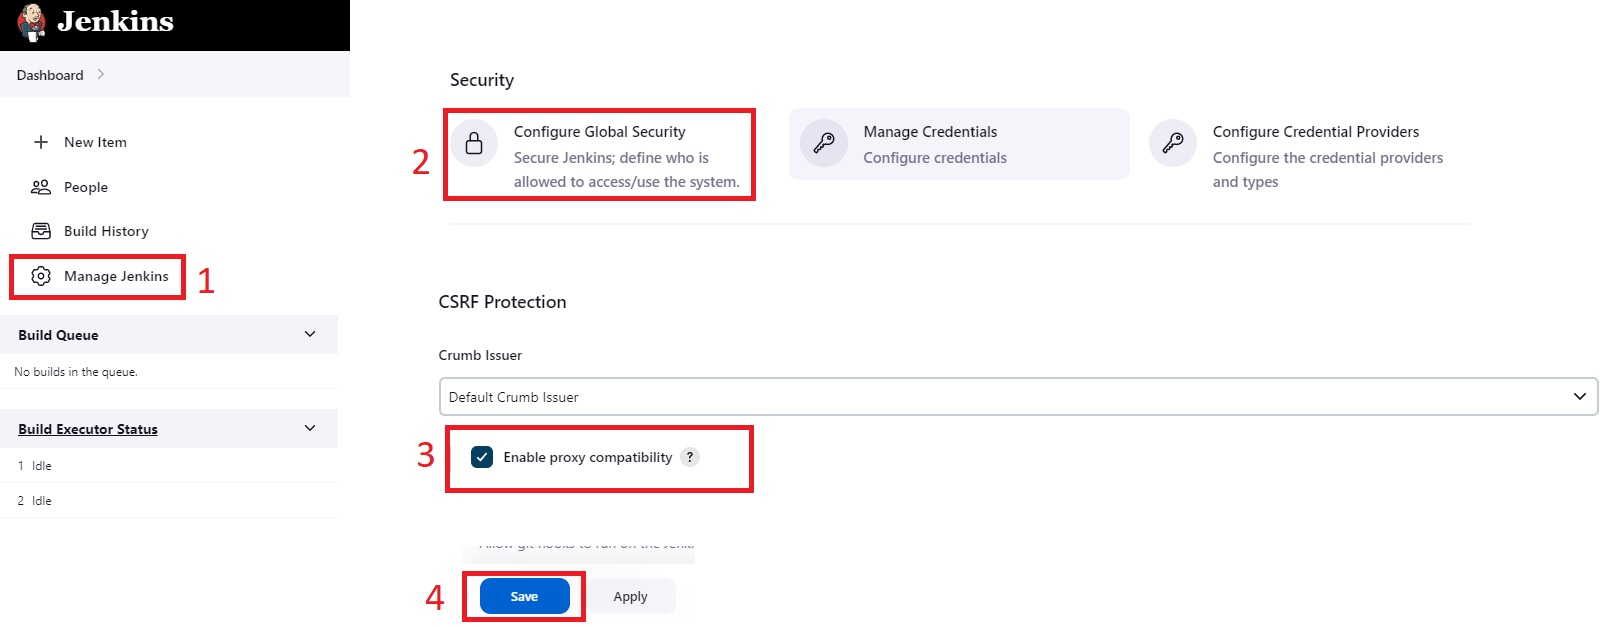
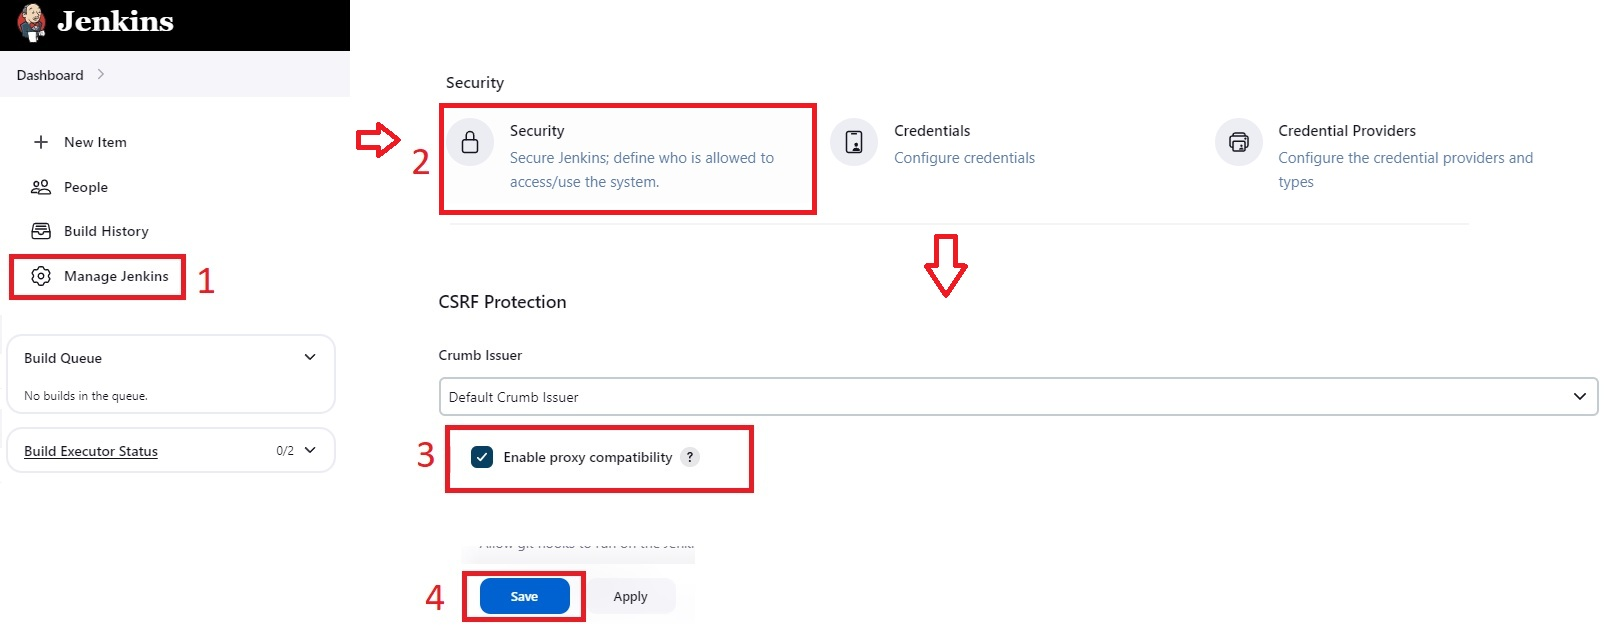
v2

diff --git a/README.md b/README.md
@@ -7,13 +7,13 @@
 ## Repository:   
 [https://github.com/GeorgeDaoud3/SOFE3980U-Lab4.git](https://github.com/GeorgeDaoud3/SOFE3980U-Lab4.git) 
 
-## Introduction and Getting started
-1. Watch the following video about [Dev-ops](https://www.youtube.com/watch?v=LFDrDnKPOTg).
-2. Install Jenkins Server on GCP, using Helm. Helm is a tool to create customized applications within Kubernetes.
+## Introduction and Getting Started 
+1. Watch the following video about [Dev-ops](https://www.youtube.com/watch?v=LFDrDnKPOTg). 
+2. Install Jenkins Server on GCP, using Helm. Helm is a tool that creates customized applications within Kubernetes.
    1. Watch the following video about [Helm](https://www.youtube.com/watch?v=fy8SHvNZGeE).
    2. If there is no Kubernetes cluster within your GCP project, Create a cluster as illustrated in [MS3](https://github.com/GeorgeDaoud3/SOFE3980U-Lab3#setup-google-kubernetes-engine-gke). To get the cluster information.
       ```cmd
-      kubectl cluster-info
+      kubectl cluster-info 
       ``` 
    3. Pull the Jenkins Helm chart from a repository.  
       ```cmd
@@ -37,69 +37,120 @@
       ```cmd 
       kubectl get services
       ```
+
       ![sq4_1](figures/sq4_1.jpg)
+    
    8. Access Jenkins server using the following URL http://\<jenkinsIP\>:8080. Where \<jenkinsIP\> is the IP obtained in the previous step. It should look like
+
       ![sq4_2](figures/sq4_2.jpg)
-   9. To fix a connection issue, **Manage Jenkins**, select **configure Global Security**, under **CSRF Protection**, and check **Enable proxy compatibility**. Click **save** button. (Note the connection issue won’t be fixed until the configuration is saved. You may need to repeat this step until the configuration is saved)
+    
+      To fix a connection issue, click Manage Jenkins, select Security, and check Enable proxy compatibility under CSRF Protection. Click the save button. (Note: the connection issue won't be fixed until the configuration is saved. You may need to repeat this step until the configuration is saved) 
+
+   9. To fix a connection issue, click **Manage Jenkins**, select **Security**,and check **Enable proxy compatibility** under **CSRF Protection**. Click the **save** button. (Note: the connection issue won’t be fixed until the configuration is saved. You may need to repeat this step until the configuration is saved)
+   
       ![sq4_3](figures/sq4_3.jpg)
+   
+## Protect Jenkins by Setting a Username and Password
+1. Click **Manage Jenkins**, select **System**, set the **Security Realm** to **Jenkins' own user database**, set the **Authentication** to **Logged-in users can do anything**, and uncheck **Allow users to sign up** and **Allow anonymous  read access**. Finally, click the **save** button.
+   
+   ![pd_1](figures/pd_1.jpg)
+   
+3. Then, Jenkins forwards you to another page to set the username and password for the admin.
+   
+   ![pd_2](figures/pd_2.jpg)
+   
 ## Create a Maven project job
-1. Create a GitHub account. Create a repository. Copy the content of the [repository](https://github.com/GeorgeDaoud3/SOFE3980U-Lab4.git) into your repository ( or simply fork it ).
-2. Create a GitHub token: Within the GitHub page, login into your account. Choose  **settings**, **Developer settings**, **Personal access token**, then, **Token (classic)**. Click **Generate new token**. Select **Generate new token (classic)**. Set the note, check **public_repo** and click **Generate token**. Finally, copy the token code.
+1. Create a GitHub account if you don't have one. Create a repository. Copy this [repository](https://github.com/GeorgeDaoud3/SOFE3980U-Lab4.git)'s content  into your repository.
+2. Create a GitHub token: Within the GitHub page, login into your account. Choose  **settings**, **Developer settings**, **Personal access token**, and **Token (classic)**. Click **Generate new token**. Select **Generate new token (classic)**. Set the note, check **public_repo**, and click **Generate token**. Finally, copy the token code.
+   
    ![sq4_7](figures/sq4_7.jpg)
-3. Install **Pipeline Maven Integration** Plugin: select **Dashboard**, **Manage Jenkins**, then, **Manage Plugins**. Choose **Available Plugins**. Search for **Pipeline Maven Integration**. After checking it, click **Download now and install after restart**. Check **Restart Jenkins when installation is complete and no jobs are running**. Finally, wait until the plugin is intalled and Jenkins restarts.
+   
+3. Install **Pipeline Maven Integration** Plugin: select **Dashboard**, **Manage Jenkins**, then **Manage Plugins**. Choose **Available Plugins**. Search for **Pipeline Maven Integration**. After checking it, click **Download now and install after restart**. Check **Restart Jenkins when installation is complete and no jobs are running**. Finally, wait until the plugin is installed and Jenkins restarts.
+
    ![sq4_4](figures/sq4_4.jpg)
-4. Repeat the previous step to install **Maven Integration** plugin
-5. Repeat the previous step to install **GitHub** plugin
-6. Configure GitHub Plugin
-   1. Select **Dashboard**, **Manage Jenkins**, then, **Configure System**. Scroll down to the **GitHub** section. Click **Add GitHub Server** button. Name it **github**. Click **Add** for a credential.
+   
+4. Repeat the previous step to install **Maven Integration** and  **GitHub** plugins
+5. Configure GitHub Plugin
+   1. Select **Dashboard**, **Manage Jenkins**, then **System**. Scroll down to the **GitHub** section. Click the **Add GitHub Server** button. Name it, **github**. Finally, click **Add**.
+
       ![sq4_8](figures/sq4_8.jpg)
-   2. Choose the kind to be **secret text**. Type Github token obtained in step 2 in the **secret** textbox. Set its **ID** to be **GitHub_token**. Finally, click **ADD**.
+      
+   2. Select the **kind** to be **Secret text**. Type the Github token obtained previously in the **Secret** textbox. Set its **ID** to be **GitHub_token**. Finally, click **ADD**.
+
       ![sq4_9](figures/sq4_9.jpg)
+      
    3. Set the **credential** to **GitHub_token**. Test the connection. Then, click **Save**.
+
       ![sq4_10](figures/sq4_10.jpg)
-7. Configure Maven Plugin: select **Dashboard**, **Manage Jenkins**, **Global Tool Configuration**, choose **Add Maven**, name it **maven**, choose **Install automatically**, click **save**.
+      
+6. Configure Maven Plugin: select **Dashboard**, **Manage Jenkins**, **Tools**, choose **Add Maven**, name it **maven**, choose **Install automatically**, then click **Save**.
+
    ![sq4_5](figures/sq4_5.jpg)
-8. Create a Job: select **Dashboard**. Click **create a job**. Name it **binaryCalculate_mvn**, and choose **Maven Project**. Finally, click **Ok**.
+   
+7. Create a Job: select **Dashboard**. Click **New Item**. Name it **binaryCalculate_mvn**, and choose **Maven Project**. Finally, click **Ok**.
+
    ![sq4_6](figures/sq4_6.jpg)
-9. Configure the job: The job will automatically pull the repository for each commit. Then, the maven project is built and the status is sent back to the repository to be associative to the commit.
+   
+8. Configure the job: The job will automatically pull the repository for each commit. Then, the maven project is built, and the status is sent back to the repository associate it with the commit.
    1. For **Source Code Management**, select **Git**. Fill in the **Repository URL**. Make sure that the **branch** is blank.
+
       ![sq4_11](figures/sq4_11.jpg)
-   2. In **build triggers** section, check **GitHub hook trigger for GITScm polling** to automatically start the job for each new commit to the repository.
+      
+   2. In the **build triggers** section, check **GitHub hook trigger for GITScm polling** to automatically start the job for each new commit to the repository.
+
       ![sq4_12](figures/sq4_12.jpg)
-   3. In **build** section, set the path of the **pom** file in the repository and the build options.
+      
+   3. In the **build** section, set the path of the **pom** file in the repository and the build options.
+
       ![sq4_13](figures/sq4_13.jpg)
-   4. In the **Post-build Actions** section, **set build status on GitHub commit** which will associate the GitHub commit with the status of the Jenkins job.
+      
+   4. In the **Post-build Actions** section, **set GitHub commit status (universal)**, which will associate the GitHub commit with the status of the Jenkins job. Change the **Status result:** to **One of the default messages and statuses**.
+
       ![sq4_14](figures/sq4_14.jpg)
-   5. Click **Save**. 
-10. To enable Jenkins to automatically start running after each commit, **webhook** has to be configured in the GitHub repository.
+      
+   5. Click **Save**.
+      
+9. To allow Jenkins to start running after each commit automatically, a **webhook** has to be configured in the GitHub repository.
    1. Within the repository page in the Github, select **Settings**. Select **Webhooks**. Then, click **Add webhook**.
+
       ![sq4_15](figures/sq4_15.jpg)
-   2. set the **Payload URL** to http://\<jenkinsIP\>:8080/github-webhook/ and the content type to JSON. Then, click **Add webhook**.
+      
+   2. Set the **Payload URL** to http://\<jenkinsIP\>:8080/github-webhook/ and the content type to JSON. Then, click **Add webhook**.
+
       ![sq4_16](figures/sq4_16.jpg)
-11. Once you commit any changes to the repository (you can change the readme file), the job will start building. 
-   1. To check the status of each run or to build it the job manually, navigate to the job page within Jenkins.
-      ![sq4_17](figures/sq4_17.jpg)
-   2. Also, the commit in the GitHub will have a check mark and a link to the Jenkins build report.
-      ![sq4_18](figures/sq4_18.jpg)
+      
+10. The job will start building once you commit any changes to the repository (or you can trigger it by editting the readme file).
+    
+    1. To check the status of each run or to build the job manually, navigate to the job page within Jenkins.
+
+       ![sq4_17](figures/sq4_17.jpg)
+      
+    2. The commit in the GitHub will also have a checkmark and a link to the Jenkins build report.
+
+       ![sq4_18](figures/sq4_18.jpg)
+
 
 ## Create a Jenkins job using a script.
-The Other way is to create a customized job by providing a script (**Jenkinsfile**) that contains the description of a pipeline of stages that would be executed. This method is more flexible. The Jenkinsfile already exists in the repository at the path /BinaryCalculatorWebapp/. 
+The Other way is to create a customized job by providing a script (**Jenkinsfile**) that describes the Job as a pipeline of stages that would be executed. This method is more flexible. The Jenkinsfile already exists in the repository at the path /BinaryCalculatorWebapp/. 
 1.	Watch this video about [the pipeline syntax]( https://www.youtube.com/watch?v=pzbrVVy6ul4)
-2.	Read the file /BinaryCalculatorWebapp/Jenkinsfile and try to understand 
-3.	Select Dashboard. Click New Item. Name it BinaryCalculator_pipeline. Choose the type to be Pipeline.
-4.	On the configuration page,
-   1. In the Build Triggers section, check GitHub hook trigger for GITScm polling.
-   2. In the Pipeline section, 
+2.	Read the file [/BinaryCalculatorWebapp/Jenkinsfile](/BinaryCalculatorWebapp/Jenkinsfile) and try to understand its function.
+3.	Go to Jenkins' **Dashboard**. Click **New Item**. Name it **BinaryCalculator_pipeline**. Choose the type to be **Pipeline**.
+4.	In the configuration page,
+   1. In the **Triggers** section, check **GitHub hook trigger for GITScm polling**.
+   2. In the **Pipeline** section, 
       * Set the **Definition** to **Pipeline script from SCM**.
       * Set the **SCM** to **Git**
       * Set the **Repository URL** to your GitHub link.
-      * Set the **Script Path** to /BinaryCalculatorWebapp/Jenkinsfile
-      * Set the **branches to build** to \* / \*
+      * Set the **branches to build** to \* / \* , **main** or leave it blank.
+      * Set the **Script Path** to BinaryCalculatorWebapp/Jenkinsfile
 5.	As the **webhook** is already configured, it should work automatically when  after each commit. Commit any change to the repository. Then, check that the job is been executed and check its report.
 
 ## Continuous Integration / Continuous Deployment (CICD) using Jenkins
+
 A continuous deployment will be added to the previous Jenkins Job. 
+
 ### 1. Create a tunnel to GKE
+
 As Jenkins runs in GKE, we will use a tunnel created with Jenkins to connect to GKE and use Docker containers as Jenkins nodes (workers).
 1. In the Jenkins user interface, select **Manage Jenkins**.
 2. Click **Clouds**.
@@ -163,15 +214,16 @@ The information obtained in the previous subsection will be saved in Jenkins as 
 
 ### 4. Create Jenkins Job
 1. Read the file [/BinaryCalculatorWebapp/Jenkinsfile_v2](/BinaryCalculatorWebapp/Jenkinsfile_v2) and try to understand
-2. Select Dashboard. Click New Item. Name it BinaryCalculator_cicd. Choose the type to be Pipeline.
+2. Select **Dashboard**. Click **New Item**. Name it **BinaryCalculator_cicd**. Choose the type to be **Pipeline**.
 3. On the configuration page,
-    1. In the Build Triggers section, check GitHub hook trigger for GITScm polling.
+    1. In the Build Triggers section, check **GitHub hook trigger for GITScm polling**.
     2. In the Pipeline section,
-        * Set the Definition to Pipeline script from SCM.
-        * Set the SCM to Git
-        * Set the Repository URL to your GitHub link.
-        * Set the Script Path to /BinaryCalculatorWebapp/Jenkinsfile_v2
-        * Set the branches to build to * / *
+        * Set the **Definition** to **Pipeline script from SCM**.
+        * Set the **SCM** to **Git**
+        * Set the **Repository URL** to your GitHub link.
+        * Set the Script Path to **BinaryCalculatorWebapp/Jenkinsfile_v2**
+        * Set the branches to build to * / * , **main** or leave it blank.
+          
 As the webhook is already configured, it should work automatically when after each commit. Commit any change to the repository. Then, check that the job is been executed and check its report.
 
 ## Discussion:
